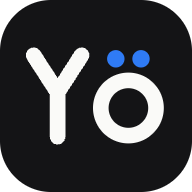
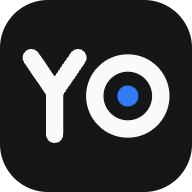
Count open source work live in the browser, order the journey by date and redraw the monogram
- Merged PRs and repositories are counted from GitHub in the browser on each
  visit (cached ten minutes), over a build-time count; work PRs in two former
  employers' repositories are no longer counted
- The site rebuilds every hour instead of once a day
- The counter rolls on to a new number and lands on it in background tabs
- The journey runs oldest first by start date, so new work appears at the end
- New YO monogram with an accent dot, used for the favicon and touch icons

diff --git a/lib/data/open-source.ts b/lib/data/open-source.ts
@@ -1,4 +1,4 @@
-/** Merged pull requests in public open-source projects. Counts are refreshed from GitHub at build time. */
+/** Merged pull requests in public open-source projects, counted from GitHub at build time and again in the browser. */
 export type OpenSourceRepo = {
   repo: string;
   name: string;
@@ -14,13 +14,13 @@ export type OpenSourceStats = {
   countedAt: string | null;
 };
 
-const AUTHOR = "ozenyunus35";
+export const AUTHOR = "ozenyunus35";
 
-/** Fallback when GitHub cannot be reached during the build (counted 31 Oct 2026). */
+/** Fallback when GitHub cannot be reached (counted 6 Nov 2026). */
 export const OPEN_SOURCE_REPOS: OpenSourceRepo[] = [
   { repo: "repowise-dev/repowise", name: "repowise", language: "Python · TypeScript", merged: 28 },
   { repo: "stephenh/ts-proto", name: "ts-proto", language: "TypeScript", merged: 17 },
-  { repo: "uutils/coreutils", name: "uutils/coreutils", language: "Rust", merged: 17 },
+  { repo: "uutils/coreutils", name: "uutils/coreutils", language: "Rust", merged: 20 },
   { repo: "cachix/devenv", name: "devenv", language: "Rust", merged: 5 },
   { repo: "Automattic/harper", name: "Harper", language: "Rust", merged: 5 },
   { repo: "oxc-project/oxc", name: "oxc", language: "Rust", merged: 4 },
@@ -28,8 +28,8 @@ export const OPEN_SOURCE_REPOS: OpenSourceRepo[] = [
 
 const FALLBACK: OpenSourceStats = {
   repos: OPEN_SOURCE_REPOS,
-  total: 115,
-  repoCount: 33,
+  total: 123,
+  repoCount: 35,
   countedAt: null,
 };
 
@@ -53,12 +53,28 @@ type SearchResponse = {
   items: { repository_url: string }[];
 };
 
-async function search(query: string, page = 1): Promise<SearchResponse> {
+/**
+ * Owners whose repositories don't count as open-source work (my own past
+ * workplaces' private product repos), stored as SHA-256 of the lowercase name.
+ */
+const EXCLUDED_OWNERS = new Set([
[2 lines of base64/hex data omitted]
+]);
+
+async function sha256(text: string): Promise<string> {
+  const bytes = await crypto.subtle.digest("SHA-256", new TextEncoder().encode(text));
+  return [...new Uint8Array(bytes)].map((b) => b.toString(16).padStart(2, "0")).join("");
+}
+
+export const MERGED_QUERY = `is:pr is:merged author:${AUTHOR} -user:${AUTHOR}`;
+
+/** One page of the GitHub issue search; works with or without a token. */
+export async function searchPage(query: string, page = 1, token?: string): Promise<SearchResponse> {
   const url = new URL("https://api.github.com/search/issues");
   url.searchParams.set("q", query);
   url.searchParams.set("per_page", "100");
   url.searchParams.set("page", String(page));
-  const token = process.env.GITHUB_TOKEN;
   const res = await fetch(url, {
     headers: {
       Accept: "application/vnd.github+json",
@@ -70,36 +86,42 @@ async function search(query: string, page = 1): Promise<SearchResponse> {
   return res.json() as Promise<SearchResponse>;
 }
 
+/** Every merged PR, grouped by repository, without the excluded owners. */
+export async function countMergedPrs(token?: string): Promise<OpenSourceStats> {
+  const first = await searchPage(MERGED_QUERY, 1, token);
+  const items = [...first.items];
+  for (let page = 2; items.length < first.total_count && page <= 10; page++) {
+    items.push(...(await searchPage(MERGED_QUERY, page, token)).items);
+  }
+  const owners = new Map<string, boolean>();
+  const perRepo = new Map<string, number>();
+  for (const item of items) {
+    const repo = item.repository_url.replace("https://api.github.com/repos/", "").toLowerCase();
+    const owner = repo.split("/")[0];
+    if (!owners.has(owner)) owners.set(owner, EXCLUDED_OWNERS.has(await sha256(owner)));
+    if (owners.get(owner)) continue;
+    perRepo.set(repo, (perRepo.get(repo) ?? 0) + 1);
+  }
+  const total = [...perRepo.values()].reduce((a, b) => a + b, 0);
+  return {
+    repos: OPEN_SOURCE_REPOS.map((r) => ({ ...r, merged: perRepo.get(r.repo.toLowerCase()) ?? r.merged }))
+      .sort((a, b) => b.merged - a.merged),
+    total,
+    repoCount: perRepo.size,
+    countedAt: new Date().toISOString(),
+  };
+}
+
 let cached: Promise<OpenSourceStats> | null = null;
 
 /**
- * Merged PR counts from the GitHub search API. Runs once per build (both
- * languages share the result); any failure falls back to the numbers above.
+ * The build-time count (both languages share it); any failure falls back to
+ * the numbers above. The browser counts again on load, see useLiveOpenSource.
  */
 export function getOpenSourceStats(): Promise<OpenSourceStats> {
-  cached ??= (async () => {
-    try {
-      const base = `is:pr is:merged author:${AUTHOR} -user:${AUTHOR}`;
-      const first = await search(base);
-      const items = [...first.items];
-      for (let page = 2; items.length < first.total_count && page <= 10; page++) {
-        items.push(...(await search(base, page)).items);
-      }
-      const perRepo = new Map<string, number>();
-      for (const item of items) {
-        const repo = item.repository_url.replace("https://api.github.com/repos/", "");
-        perRepo.set(repo.toLowerCase(), (perRepo.get(repo.toLowerCase()) ?? 0) + 1);
-      }
-      return {
-        repos: OPEN_SOURCE_REPOS.map((r) => ({ ...r, merged: perRepo.get(r.repo.toLowerCase()) ?? r.merged })),
-        total: first.total_count,
-        repoCount: perRepo.size,
-        countedAt: new Date().toISOString().slice(0, 10),
-      };
-    } catch (error) {
-      console.warn("Open source stats: using fallback numbers.", error);
-      return FALLBACK;
-    }
-  })();
+  cached ??= countMergedPrs(process.env.GITHUB_TOKEN).catch((error) => {
+    console.warn("Open source stats: using fallback numbers.", error);
+    return FALLBACK;
+  });
   return cached;
 }

diff --git a/components/motion/CountUp.tsx b/components/motion/CountUp.tsx
@@ -5,32 +5,45 @@ import { useInView } from "@/hooks/useInView";
 import { useReducedMotion } from "@/hooks/useReducedMotion";
 
 /**
- * Counts up to `value` the first time it scrolls into view. The HTML carries the real number,
- * so it is right without JavaScript, with reduced motion and for screen readers.
+ * Counts up to `value` the first time it scrolls into view, and rolls on to the new number when
+ * the value changes later (live counts). The HTML carries the real number, so it is right without
+ * JavaScript, with reduced motion and for screen readers.
  */
 export function CountUp({ value, duration = 1400, className }: { value: number; duration?: number; className?: string }) {
   const [ref, inView] = useInView<HTMLSpanElement>("-10% 0px");
   const reduced = useReducedMotion();
-  const [shown, setShown] = useState(value);
-  const played = useRef(false);
+  const [shown, setShown] = useState<number | null>(null);
+  const from = useRef<number | null>(null);
 
   useEffect(() => {
-    if (!inView || reduced || played.current) return;
-    played.current = true;
+    if (!inView || reduced) return;
+    const start = from.current ?? 0;
+    if (start === value) return;
     let frame = 0;
-    const start = performance.now();
+    const began = performance.now();
+    const length = from.current === null ? duration : Math.min(duration, 700);
     const step = (now: number) => {
-      const t = Math.min(1, (now - start) / duration);
-      setShown(Math.round(value * (1 - Math.pow(1 - t, 3))));
+      const t = Math.min(1, (now - began) / length);
+      const current = Math.round(start + (value - start) * (1 - Math.pow(1 - t, 3)));
+      from.current = current;
+      setShown(current);
       if (t < 1) frame = requestAnimationFrame(step);
     };
     frame = requestAnimationFrame(step);
-    return () => cancelAnimationFrame(frame);
+    // Background tabs don't run animation frames: land on the number anyway.
+    const settle = window.setTimeout(() => {
+      from.current = value;
+      setShown(value);
+    }, length + 150);
+    return () => {
+      cancelAnimationFrame(frame);
+      window.clearTimeout(settle);
+    };
   }, [inView, reduced, value, duration]);
 
   return (
     <span ref={ref} className={className}>
-      <span aria-hidden>{shown}</span>
+      <span aria-hidden>{reduced || shown === null ? value : shown}</span>
       <span className="sr-only">{value}</span>
     </span>
   );

diff --git a/components/ui/Logo.tsx b/components/ui/Logo.tsx
@@ -1,20 +1,19 @@
 import { cn } from "@/lib/utils/cn";
 
 /**
- * The site's monogram: a geometric Y and Ö on a tile in the text colour, with the umlaut dots in the accent.
+ * The site's monogram: a geometric Y and O on a tile in the text colour, with an accent dot in the O.
  * Same drawing as public/logo.svg, which is the favicon.
  */
 export function Logo({ size = 28, className, framed = false }: { size?: number; className?: string; framed?: boolean }) {
   return (
     <span className={cn("logo", framed && "logo-framed", className)} style={{ width: size, height: size }} aria-hidden>
       <svg viewBox="0 0 32 32" width="100%" height="100%">
-        <rect width="32" height="32" rx="8.5" fill="var(--foreground)" />
-        <g fill="none" stroke="var(--ink)" strokeWidth="2.6" strokeLinecap="round" strokeLinejoin="round">
-          <path className="logo-path" d="M5.6 9.2 9.6 15.4 13.6 9.2M9.6 15.4V22.8" />
-          <circle cx="21.4" cy="18" r="4.6" />
+        <rect width="32" height="32" rx="8" fill="var(--foreground)" />
+        <g fill="none" stroke="var(--ink)" strokeWidth="2.9" strokeLinecap="round" strokeLinejoin="round">
+          <path className="logo-path" d="M5.2 9.6 9.1 15.3 13 9.6M9.1 15.3V22.4" />
+          <circle cx="21.3" cy="16" r="5.5" />
         </g>
-        <circle cx="19.3" cy="9.8" r="1.45" fill="var(--accent-hot)" className="logo-dot" />
-        <circle cx="23.5" cy="9.8" r="1.45" fill="var(--accent-hot)" className="logo-dot" />
+        <circle cx="21.3" cy="16" r="1.75" fill="var(--accent-hot)" className="logo-dot" />
       </svg>
     </span>
   );

diff --git a/lib/data/use-live-open-source.ts b/lib/data/use-live-open-source.ts
@@ -1,0 +1,46 @@
+"use client";
+
+import { useEffect, useState } from "react";
+import { countMergedPrs, type OpenSourceStats } from "./open-source";
+
+const KEY = "oss-stats-v2";
+const FRESH_MS = 10 * 60 * 1000;
+
+let inflight: Promise<OpenSourceStats> | null = null;
+
+/** A count from the last ten minutes, or a new one from GitHub (saved for the next visit). */
+function liveStats(): Promise<OpenSourceStats> {
+  inflight ??= (async () => {
+    try {
+      const saved = JSON.parse(localStorage.getItem(KEY) ?? "null") as { at: number; stats: OpenSourceStats } | null;
+      if (saved && Date.now() - saved.at < FRESH_MS && saved.stats.total > 0) return saved.stats;
+    } catch {}
+    const live = await countMergedPrs();
+    try {
+      localStorage.setItem(KEY, JSON.stringify({ at: Date.now(), stats: live }));
+    } catch {}
+    return live;
+  })();
+  return inflight;
+}
+
+/**
+ * Starts from the numbers baked in at build time, then counts again from
+ * GitHub in the browser, so a PR merged an hour ago already shows. Counts are
+ * kept for ten minutes, well inside GitHub's unauthenticated search limit.
+ */
+export function useLiveOpenSource(initial: OpenSourceStats): OpenSourceStats {
+  const [stats, setStats] = useState(initial);
+  useEffect(() => {
+    let alive = true;
+    liveStats()
+      .then((live) => {
+        if (alive && live.total > 0) setStats(live);
+      })
+      .catch(() => {});
+    return () => {
+      alive = false;
+    };
+  }, []);
+  return stats;
+}

diff --git a/app/globals.css b/app/globals.css
@@ -676,7 +676,7 @@ main { position: relative; z-index: 1; }
 [data-theme="dark"] .theme-toggle-moon { transform: translateY(-140%) rotate(90deg); opacity: 0; }
 [data-theme="dark"] .theme-toggle-sun { transform: none; opacity: 1; }
 
-/* The YÖ mark: a small gradient tile used in the header, the tech map and the footer. */
+/* The YO mark: a small gradient tile used in the header, the tech map and the footer. */
 .brand-mark {
   display: inline-grid;
   place-items: center;
@@ -1330,7 +1330,8 @@ a:hover > .logo .logo-path { animation: logo-draw 700ms var(--ease-reveal); }
 a:hover > .logo .logo-dot { animation: logo-dot 500ms var(--ease-reveal) both; }
 a:hover > .logo .logo-dot:last-child { animation-delay: 80ms; }
 @keyframes logo-draw { from { stroke-dashoffset: 30; } }
-@keyframes logo-dot { from { transform: translateY(-3px); opacity: 0; } }
+@keyframes logo-dot { from { transform: scale(0); opacity: 0; } }
+.logo-dot { transform-box: fill-box; transform-origin: center; }
 .orbit-mark.logo { width: clamp(3.75rem, 15cqw, 5.5rem) !important; height: clamp(3.75rem, 15cqw, 5.5rem) !important; position: relative; z-index: 1; box-shadow: 0 0 0 6px var(--ink), 0 14px 40px -12px var(--accent-glow); }
 
 /* About: a short vertical path. Contact: the compose form. */

diff --git a/components/home/HomeHero.tsx b/components/home/HomeHero.tsx
@@ -6,6 +6,7 @@ import { ParticleOpening } from "@/components/cinematic/ParticleOpening";
 import { Avatar } from "@/components/ui/Avatar";
 import { useI18n } from "@/lib/i18n/I18nProvider";
 import type { OpenSourceStats } from "@/lib/data/open-source";
+import { useLiveOpenSource } from "@/lib/data/use-live-open-source";
 
 /** Entrance delays in ms; the text is in the HTML from the start, CSS only fades it in. */
 const delay = (ms: number) => ({ animationDelay: `${ms}ms` });
@@ -16,7 +17,8 @@ const AUTHOR = "ozenyunus35";
  * Opening: who I am and what I do on the left; on the right an engineer's card with my photo and a terminal that lists
  * my merged pull requests, from the same GitHub count as the rest of the page. Below, a strip of the projects.
  */
-export function HomeHero({ marquee, stats }: { marquee: string[]; stats: OpenSourceStats }) {
+export function HomeHero({ marquee, stats: built }: { marquee: string[]; stats: OpenSourceStats }) {
+  const stats = useLiveOpenSource(built);
   const { dict, path } = useI18n();
   const { home, hero, site, openSource } = dict;
   const words = home.headline.lead.split(" ");

diff --git a/lib/i18n/get-dictionary.ts b/lib/i18n/get-dictionary.ts
@@ -1,11 +1,15 @@
-import { compareProjectsByDate } from "@/lib/data/project-periods";
+import { compareMilestonesByDate, compareProjectsByDate } from "@/lib/data/project-periods";
 import type { Locale } from "./config";
 import { dictionaryEn } from "./dictionaries/en";
 import { dictionaryTr } from "./dictionaries/tr";
 
-/** Projects are listed newest first, by start date. */
-function sortProjects<D extends { projects: readonly { slug: string }[] }>(dict: D): D {
-  return { ...dict, projects: [...dict.projects].sort((a, b) => compareProjectsByDate(a.slug, b.slug)) };
+/** Projects are listed newest first; the journey runs oldest first. Both follow the start dates, so a new entry lands in place on its own. */
+function sortProjects<D extends { projects: readonly { slug: string }[]; journey: { milestones: readonly { id: string }[] } }>(dict: D): D {
+  return {
+    ...dict,
+    projects: [...dict.projects].sort((a, b) => compareProjectsByDate(a.slug, b.slug)),
+    journey: { ...dict.journey, milestones: [...dict.journey.milestones].sort((a, b) => compareMilestonesByDate(a.id, b.id)) },
+  };
 }
 
 const dictionaries = {

diff --git a/lib/data/project-periods.ts b/lib/data/project-periods.ts
@@ -123,6 +123,25 @@ function startKey(slug: string) {
   return (year * 12 + month) * 32 + day;
 }
 
+/** Start dates of the milestones that aren't projects. */
+const MILESTONE_STARTS: Record<string, MonthYear> = {
+  education: { month: 9, year: 2021 },
+  "nasa-2022": { month: 10, year: 2022 },
+};
+
+function milestoneKey(id: string) {
+  const start = MILESTONE_STARTS[id];
+  if (!start) return startKey(id);
+  return (start.year * 12 + start.month) * 32 + (start.day ?? 1);
+}
+
+/** Sort comparator for the journey: oldest first, so the newest work is at the bottom. */
+export function compareMilestonesByDate(a: string, b: string) {
+  const diff = milestoneKey(a) - milestoneKey(b);
+  if (diff !== 0) return diff;
+  return SAME_DAY_ORDER.indexOf(b) - SAME_DAY_ORDER.indexOf(a);
+}
+
 /** Sort comparator: the most recently started project comes first. */
 export function compareProjectsByDate(a: string, b: string) {
   const diff = startKey(b) - startKey(a);

diff --git a/components/home/HomeOpenSource.tsx b/components/home/HomeOpenSource.tsx
@@ -5,9 +5,11 @@ import { ScrollReveal } from "@/components/motion/ScrollReveal";
 import { SectionLabel } from "@/components/prism/SectionLabel";
 import { useI18n } from "@/lib/i18n/I18nProvider";
 import { OPEN_SOURCE_ALSO, mergedPrsUrl, type OpenSourceStats } from "@/lib/data/open-source";
+import { useLiveOpenSource } from "@/lib/data/use-live-open-source";
 
 /** The one dark section on the light page: merged pull requests per repository, counted from GitHub at build time. */
-export function HomeOpenSource({ stats }: { stats: OpenSourceStats }) {
+export function HomeOpenSource({ stats: built }: { stats: OpenSourceStats }) {
+  const stats = useLiveOpenSource(built);
   const { dict, locale } = useI18n();
   const { openSource } = dict;
   const countedAt = stats.countedAt

diff --git a/components/home/HomeStats.tsx b/components/home/HomeStats.tsx
@@ -4,9 +4,11 @@ import { CountUp } from "@/components/motion/CountUp";
 import { ScrollReveal } from "@/components/motion/ScrollReveal";
 import { useI18n } from "@/lib/i18n/I18nProvider";
 import type { OpenSourceStats } from "@/lib/data/open-source";
+import { useLiveOpenSource } from "@/lib/data/use-live-open-source";
 
 /** Three numbers, all counted from real data: merged PRs and repositories from GitHub, products from the project list. */
-export function HomeStats({ stats }: { stats: OpenSourceStats }) {
+export function HomeStats({ stats: built }: { stats: OpenSourceStats }) {
+  const stats = useLiveOpenSource(built);
   const { dict } = useI18n();
   const { home } = dict;
   const items = [

diff --git a/app/layout.tsx b/app/layout.tsx
@@ -36,7 +36,7 @@ const jetbrains = JetBrains_Mono({
 
 export const metadata: Metadata = {
   metadataBase: new URL(getSiteUrl()),
-  // The YÖ monogram from components/ui/Logo.tsx; PNGs for browsers that do not use SVG favicons (Safari).
+  // The YO monogram from components/ui/Logo.tsx; PNGs for browsers that do not use SVG favicons (Safari).
   icons: {
     icon: [
       { url: withBasePath("/logo.svg"), type: "image/svg+xml" },

diff --git a/components/home/HomeTechMap.tsx b/components/home/HomeTechMap.tsx
@@ -13,7 +13,7 @@ const RINGS = [
 ];
 
 /**
- * The stack as an orbit: one ring per category around the YÖ mark, turning slowly. The rings stop under the pointer
+ * The stack as an orbit: one ring per category around the YO mark, turning slowly. The rings stop under the pointer
  * and with reduced motion. The list next to it says the same thing in words.
  */
 export function HomeTechMap() {
